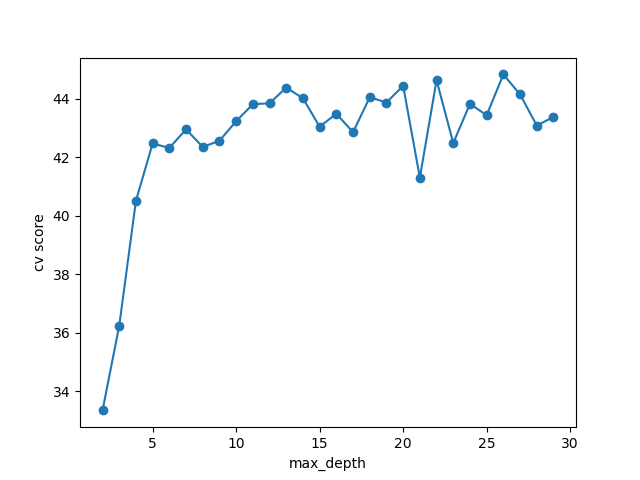
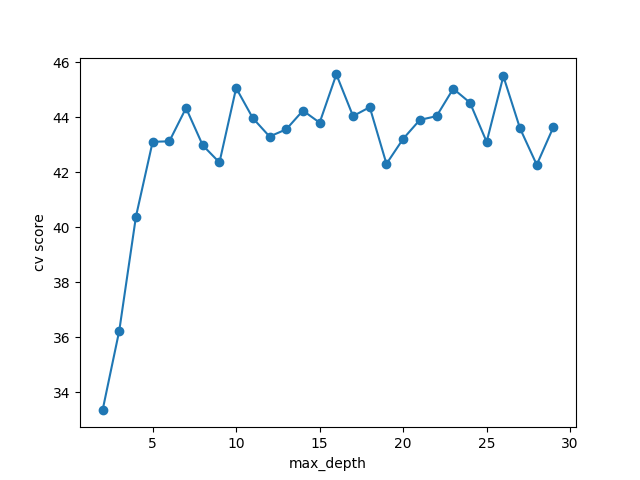
Change features selected

diff --git a/Activity_4/tree_model.py b/Activity_4/tree_model.py
@@ -35,11 +35,11 @@ data = data.drop([87,139])
 
 
 ### 2. Feature selection
-features_names = ['year', 'weekofyear', 'ndvi_se',
-                 'reanalysis_max_air_temp_k',
-                 'reanalysis_specific_humidity_g_per_kg',
-                 'station_max_temp_c',
-                 'station_precip_mm']
+features_names = ['year', 'weekofyear',
+                  'ndvi_se', 'ndvi_sw',
+                  'reanalysis_max_air_temp_k', 'reanalysis_air_temp_k',
+                  'reanalysis_specific_humidity_g_per_kg', 'station_max_temp_c',
+                  'station_precip_mm', 'reanalysis_sat_precip_amt_mm']
 
 features = data[features_names]
 labels = data['total_cases']
